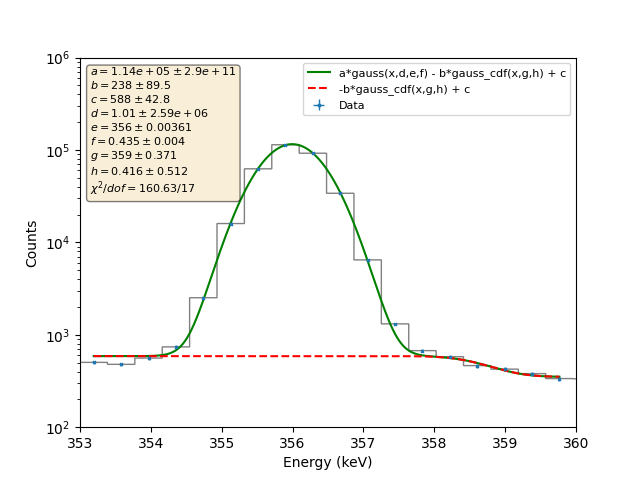
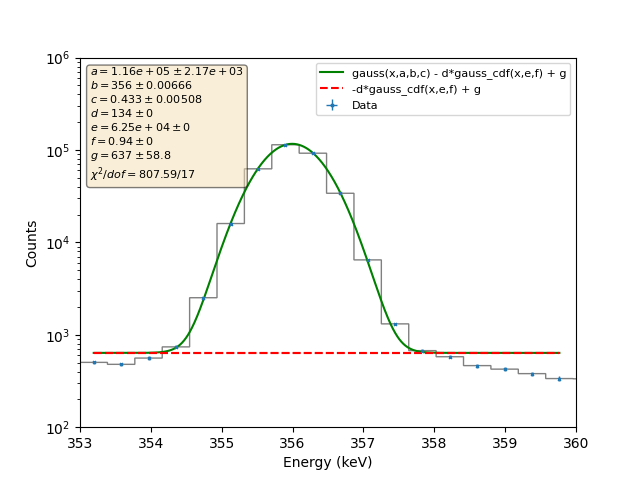
update

diff --git a/Ba133_analysis/Ba133_dlt_analysis.py b/Ba133_analysis/Ba133_dlt_analysis.py
@@ -58,20 +58,20 @@ def main():
     xmin_356, xmax_356 = 353, 360 #kev
     plt.figure()
     popt, pcov, xfit = fit_peak_356("Energy (keV)", bins_cal, counts, xmin_356, xmax_356)
-    a,b,c,d,e,f,g,h = popt[0],popt[1],[2],popt[3],popt[4],popt[5],popt[6],popt[7] 
+    a,b,c,d,e,f,g = popt[0],popt[1],popt[2],popt[3],popt[4],popt[5],popt[6] 
     counts, bins, bars = plt.hist(calibrated_energy, bins=no_bins, histtype='step', color='grey')
     plt.xlim(xmin_356, xmax_356) 
     plt.ylim(100, 10**6)
-    plt.plot(xfit, -1*popt[1]*gaussian_cdf(xfit,popt[6],popt[7]) + popt[2], "r--", label ="-b*gauss_cdf(x,g,h) + c")
+    plt.plot(xfit, -1*d*gaussian_cdf(xfit,e,f) + g, "r--", label ="-d*gauss_cdf(x,e,f) + g")
     plt.yscale("log")
     plt.savefig("/lfs/l1/legend/users/aalexander/HADES_detchar/Ba133_analysis/plots/356keV_dlt.png")
 
 
     #plot signal only and calculate integral
     fig, ax = plt.subplots()
-    ax.plot(xfit, a*gaussian(xfit, d, e, f), "b--", label ="a*gauss(x,e,f)")
+    plt.plot(xfit, gaussian(xfit,a,b,c), "b--", label ="gauss(x,a,b,c)")
     plt.yscale("log")
-    integral = gauss_count(a*d, e, f)
+    integral = gauss_count(a, b, c)
     print("gauss count: ", integral)
     plt.xlim(xmin_356, xmax_356) 
     plt.xlabel("Energy (keV)")
@@ -86,10 +86,11 @@ def main():
     #try other fits - constrained cdf - doesnt work?
     plt.figure()
     popt, pcov, xfit = fit_peak_356_2("Energy (keV)", bins_cal, counts, xmin_356, xmax_356)
+    a,b,c,d,e = popt[0],popt[1],[2],popt[3],popt[4]
     counts, bins, bars = plt.hist(calibrated_energy, bins=no_bins, histtype='step', color='grey')
     plt.xlim(xmin_356, xmax_356) 
     plt.ylim(100, 10**6)
-    plt.plot(xfit, -1*popt[1]*gaussian_cdf(xfit,popt[4],popt[5]) + popt[2], "r--", label ="-b*gauss_cdf(x,e,f) + c")
+    plt.plot(xfit, -1*d*gaussian_cdf(xfit,b,c) + e, "r--", label ="-d*gauss_cdf(x,b,c) + e")
     plt.yscale("log")
     plt.savefig("/lfs/l1/legend/users/aalexander/HADES_detchar/Ba133_analysis/plots/356keV_dlt_2.png")
 
@@ -126,6 +127,7 @@ def obtain_key_data(data, keys, key, no_events):
 def gaussian(x,a,b,c):
     "gaussian function without offset"
     f = a*np.exp(-((x-b)**2.0/(2.0*c**2.0)))
+    #f = a*np.exp(-(pow((x-b),2)/(2.0*pow(c,2))))
     return f
 
 def gaussian_cdf(x,a,b):
@@ -133,14 +135,14 @@ def gaussian_cdf(x,a,b):
     f = stats.norm.cdf(x, a, b) #default e=0=mean/loc, f=1=sigma/scale
     return f
 
-def gaussian_and_bkg(x, a, b, c, d, e, f, g, h):
+def gaussian_and_bkg(x, a, b, c, d, e, f, g):
     "fit function for 356kev peak"
-    f = a*gaussian(x, d, e, f) - b*gaussian_cdf(x, g, h) + c
+    f = gaussian(x, a, b, c) - d*gaussian_cdf(x, e, f) + g
     return f
 
-def gaussian_and_bkg_2(x, a, b, c, d, e, f):
+def gaussian_and_bkg_2(x, a, b, c, d, e):
     "fit function for 356kev peak - cdf fixed to same params as gaussian"
-    f = a*gaussian(x, d, e, f) - b*gaussian_cdf(x, e, f) + c
+    f = gaussian(x, a, b, c) - d*gaussian_cdf(x, b, c) + e
     return f
 
 def linear_fit(x, m, c):
@@ -158,7 +160,7 @@ def sqrt_curve(x,a,c):
     f = a*np.sqrt(x+c)
     return f
 
-def chi_sq_calc(xdata, ydata, yerr, fittype, popt):
+def chi_sq_calc(xdata, ydata, yerr, fit_func, popt):
     "calculate chi sq and p-val of a fit given the data points and fit parameters, e.g. fittype ='linear'"
    
     y_obs = ydata
@@ -166,18 +168,7 @@ def chi_sq_calc(xdata, ydata, yerr, fittype, popt):
 
     for index, y_i in enumerate(y_obs):
         x_obs = xdata[index]
-        if fittype == "linear":
-            y_exp_i = linear_fit(x_obs, *popt)
-        if fittype == "gaussian":
-            y_exp_i = gaussian(x_obs, *popt)
-        if fittype == "quadratic":
-            y_exp_i = quadratic_fit(x_obs, *popt)
-        if fittype == "sqrt":
-            y_exp_i = sqrt_curve(x_obs, *popt)
-        if fittype == "gaussian_and_bkg":
-            y_exp_i = gaussian_and_bkg(x_obs, *popt)
-        if fittype == "gaussian_and_bkg_2":
-            y_exp_i = gaussian_and_bkg_2(x_obs, *popt)
+        y_exp_i = fit_func(x_obs, *popt)
         y_exp.append(y_exp_i)
 
     #chi_sq, p_value = stats.chisquare(y_obs, y_exp)#this is without errors
@@ -226,15 +217,14 @@ def fit_peak_356(key, bins, counts, xmin, xmax):
     #initial rough guess of params
     aguess = max(ydata) - min(ydata) #gauss amplitude
     aguess_index = np.where(ydata == max(ydata))[0][0]
-    bguess = min(ydata)/100 #cdf amp
-    cguess = 0 #min(ydata) #offset
-    dguess = 1 #intrinsic gauss amp
-    eguess = xdata[aguess_index] #gauss mean
-    fguess = 1 #gauss sigma
-    gguess = eguess #cdf mean
-    hguess = 1 #fguess #cdf sigma
-    p_guess = [aguess, bguess, cguess, dguess, eguess, fguess, gguess, hguess]
-    #bounds=([0, 0, -np.inf, 0, 0, 0, 0, 0], [np.inf]*8)
+    bguess = xdata[aguess_index] #gauss mean
+    cguess =  1 #gauss sigma
+    dguess =  min(ydata)/100 #cdf amp
+    eguess =  bguess #cdf mean
+    fguess = cguess #cdf sigma
+    gguess = 0 #offset
+    p_guess = [aguess, bguess, cguess, dguess, eguess, fguess, gguess]
+    bounds=([0, 0, 0, 0, 0, 0, -np.inf], [np.inf]*7)
     sigma = []
     for index, i in enumerate(yerr):    
         if i != 0:
@@ -242,24 +232,24 @@ def fit_peak_356(key, bins, counts, xmin, xmax):
         else:
             sigma.append(1) #just to prevent errors...
     sigma = np.array(sigma)
-    popt, pcov = optimize.curve_fit(gaussian_and_bkg, xdata, ydata, p0=p_guess, sigma = sigma, maxfev = 1000000, method ="trf") #, bounds = bounds)
+    popt, pcov = optimize.curve_fit(gaussian_and_bkg, xdata, ydata, p0=p_guess, sigma = sigma, maxfev = 10**7, method ="trf", bounds = bounds)
     
-    a,b,c,d,e,f,g,h = popt[0],popt[1],[2],popt[3],popt[4],popt[5],popt[6],popt[7] 
+    a,b,c,d,e,f,g = popt[0],popt[1],[2],popt[3],popt[4],popt[5],popt[6]
 
     fig, ax = plt.subplots()
     #ax.errorbar(xdata, ydata, xerr=0, yerr =yerr, label = "Data", elinewidth = 1, fmt='x', ms = 0.75, mew = 3.0)
     plt.errorbar(xdata, ydata, xerr=0, yerr =yerr, label = "Data", elinewidth = 1, fmt='x', ms = 0.75, mew = 3.0)
     xfit = np.linspace(min(xdata), max(xdata), 1000)
-    plt.plot(xfit, gaussian_and_bkg(xfit,*popt), "g", label = "a*gauss(x,d,e,f) - b*gauss_cdf(x,g,h) + c") 
-    plt.plot(xfit, -1*b*gaussian_cdf(xfit,g,h) + c, "r--", label ="-b*gauss_cdf(x,g,h) + c")
+    plt.plot(xfit, gaussian_and_bkg(xfit,*popt), "g", label = "gauss(x,a,b,c) - d*gauss_cdf(x,e,f) + g") 
+    plt.plot(xfit, -1*d*gaussian_cdf(xfit,e,f) + g, "r--", label ="-d*gauss_cdf(x,e,f) + g")
     plt.xlabel(key)
     plt.ylabel("Counts")
     plt.legend(loc="upper right", fontsize=8)
 
-    chi_sq, p_value, residuals, dof = chi_sq_calc(xdata, ydata, yerr, "gaussian_and_bkg", popt)
+    chi_sq, p_value, residuals, dof = chi_sq_calc(xdata, ydata, yerr, gaussian_and_bkg, popt)
 
     props = dict(boxstyle='round', facecolor='wheat', alpha=0.5)
-    info_str = '\n'.join((r'$a=%.3g \pm %.3g$' % (popt[0], np.sqrt(pcov[0][0])), r'$b=%.3g \pm %.3g$' % (popt[1], np.sqrt(pcov[1][1])), r'$c=%.3g \pm %.3g$' % (popt[2], np.sqrt(pcov[2][2])), r'$d=%.3g \pm %.3g$' % (popt[3], np.sqrt(pcov[3][3])), r'$e=%.3g \pm %.3g$' % (popt[4], np.sqrt(pcov[4][4])), r'$f=%.3g \pm %.3g$' % (popt[5], np.sqrt(pcov[5][5])),r'$g=%.3g \pm %.3g$' % (popt[6], np.sqrt(pcov[6][6])), r'$h=%.3g \pm %.3g$' % (popt[7], np.sqrt(pcov[7][7])), r'$\chi^2/dof=%.2f/%.0f$'%(chi_sq, dof)))
+    info_str = '\n'.join((r'$a=%.3g \pm %.3g$' % (popt[0], np.sqrt(pcov[0][0])), r'$b=%.3g \pm %.3g$' % (popt[1], np.sqrt(pcov[1][1])), r'$c=%.3g \pm %.3g$' % (popt[2], np.sqrt(pcov[2][2])), r'$d=%.3g \pm %.3g$' % (popt[3], np.sqrt(pcov[3][3])), r'$e=%.3g \pm %.3g$' % (popt[4], np.sqrt(pcov[4][4])), r'$f=%.3g \pm %.3g$' % (popt[5], np.sqrt(pcov[5][5])),r'$g=%.3g \pm %.3g$' % (popt[6], np.sqrt(pcov[6][6])), r'$\chi^2/dof=%.2f/%.0f$'%(chi_sq, dof)))
     plt.text(0.02, 0.98, info_str, transform=ax.transAxes, fontsize=8,verticalalignment='top', bbox=props) #ax.text..ax.tra
 
     return popt, pcov, xfit
@@ -287,13 +277,13 @@ def fit_peak_356_2(key, bins, counts, xmin, xmax):
     #initial rough guess of params
     aguess = max(ydata) - min(ydata) #gauss amplitude
     aguess_index = np.where(ydata == max(ydata))[0][0]
-    bguess = min(ydata)/100 #cdf amp
-    cguess = 0 #min(ydata) #offset
-    dguess = 1 #intrinsic gauss amp
-    eguess = xdata[aguess_index] #gauss mean
-    fguess = 1 #gauss sigma
-    p_guess = [aguess, bguess, cguess, dguess, eguess, fguess]
-    #bounds=([0, 0, -np.inf, 0, 0, 0, 0, 0], [np.inf]*6)
+    bguess = xdata[aguess_index] #gauss mean
+    cguess =  1 #gauss sigma
+    dguess =  min(ydata)/100 #cdf amp
+    eguess = 0 #offset
+    p_guess = [aguess,bguess,cguess,dguess,eguess]
+    bounds=([0, 0, 0, 0, -np.inf], [np.inf]*5)
+    #bounds=([0, 0, -np.inf, 0, 0, 0, 0, 0], [np.inf]*4)
     sigma = []
     for index, i in enumerate(yerr):    
         if i != 0:
@@ -301,24 +291,24 @@ def fit_peak_356_2(key, bins, counts, xmin, xmax):
         else:
             sigma.append(1) #just to prevent errors...
     sigma = np.array(sigma)
-    popt, pcov = optimize.curve_fit(gaussian_and_bkg_2, xdata, ydata, p0=p_guess, sigma = sigma, maxfev = 1000000, method ="trf") #, bounds = bounds)
+    popt, pcov = optimize.curve_fit(gaussian_and_bkg_2, xdata, ydata, p0=p_guess, sigma = sigma, maxfev = 10**7, method ="trf", bounds = bounds)
     
-    a,b,c,d,e,f = popt[0],popt[1],[2],popt[3],popt[4],popt[5]
+    a,b,c,d,e = popt[0],popt[1],[2],popt[3],popt[4]
 
     fig, ax = plt.subplots()
     #ax.errorbar(xdata, ydata, xerr=0, yerr =yerr, label = "Data", elinewidth = 1, fmt='x', ms = 0.75, mew = 3.0)
     plt.errorbar(xdata, ydata, xerr=0, yerr =yerr, label = "Data", elinewidth = 1, fmt='x', ms = 0.75, mew = 3.0)
     xfit = np.linspace(min(xdata), max(xdata), 1000)
-    plt.plot(xfit, gaussian_and_bkg_2(xfit,*popt), "g", label = "a*gauss(x,d,e,f) - b*gauss_cdf(x,e,f) + c") 
-    plt.plot(xfit, -1*b*gaussian_cdf(xfit,e,f) + c, "r--", label ="-b*gauss_cdf(x,e,f) + c")
+    plt.plot(xfit, gaussian_and_bkg_2(xfit,*popt), "g", label = "gauss(x,a,b,c) - d*gauss_cdf(x,b,c) + e") 
+    plt.plot(xfit, -1*d*gaussian_cdf(xfit,b,c) + e, "r--", label ="-d*gauss_cdf(x,b,c) + e")
     plt.xlabel(key)
     plt.ylabel("Counts")
     plt.legend(loc="upper right", fontsize=8)
 
-    chi_sq, p_value, residuals, dof = chi_sq_calc(xdata, ydata, yerr, "gaussian_and_bkg_2", popt)
+    chi_sq, p_value, residuals, dof = chi_sq_calc(xdata, ydata, yerr, gaussian_and_bkg_2, popt)
 
     props = dict(boxstyle='round', facecolor='wheat', alpha=0.5)
-    info_str = '\n'.join((r'$a=%.3g \pm %.3g$' % (popt[0], np.sqrt(pcov[0][0])), r'$b=%.3g \pm %.3g$' % (popt[1], np.sqrt(pcov[1][1])), r'$c=%.3g \pm %.3g$' % (popt[2], np.sqrt(pcov[2][2])), r'$d=%.3g \pm %.3g$' % (popt[3], np.sqrt(pcov[3][3])), r'$e=%.3g \pm %.3g$' % (popt[4], np.sqrt(pcov[4][4])), r'$f=%.3g \pm %.3g$' % (popt[5], np.sqrt(pcov[5][5])), r'$\chi^2/dof=%.2f/%.0f$'%(chi_sq, dof)))
+    info_str = '\n'.join((r'$a=%.3g \pm %.3g$' % (popt[0], np.sqrt(pcov[0][0])), r'$b=%.3g \pm %.3g$' % (popt[1], np.sqrt(pcov[1][1])), r'$c=%.3g \pm %.3g$' % (popt[2], np.sqrt(pcov[2][2])), r'$d=%.3g \pm %.3g$' % (popt[3], np.sqrt(pcov[3][3])), r'$e=%.3g \pm %.3g$' % (popt[4], np.sqrt(pcov[4][4])), r'$\chi^2/dof=%.2f/%.0f$'%(chi_sq, dof)))
     plt.text(0.02, 0.98, info_str, transform=ax.transAxes, fontsize=8,verticalalignment='top', bbox=props) #ax.text..ax.tra
 
     return popt, pcov, xfit

diff --git a/Ba133_analysis/Ba133_Calibration.py b/Ba133_analysis/Ba133_Calibration.py
@@ -277,7 +277,7 @@ def sqrt_curve(x,a,c):
     f = a*np.sqrt(x + c)
     return f
 
-def chi_sq_calc(xdata, ydata, yerr, fittype, popt):
+def chi_sq_calc(xdata, ydata, yerr, fit_func, popt):
     "calculate chi sq and p-val of a fit given the data points and fit parameters, e.g. fittype ='linear'"
    
     y_obs = ydata
@@ -285,14 +285,7 @@ def chi_sq_calc(xdata, ydata, yerr, fittype, popt):
 
     for index, y_i in enumerate(y_obs):
         x_obs = xdata[index]
-        if fittype == "linear":
-            y_exp_i = linear_fit(x_obs, *popt)
-        if fittype == "gaussian":
-            y_exp_i = gaussian(x_obs, *popt)
-        if fittype == "quadratic":
-            y_exp_i = quadratic_fit(x_obs, *popt)
-        if fittype == "sqrt":
-            y_exp_i = sqrt_curve(x_obs, *popt)
+        y_exp_i = fit_func(x_obs, *popt)
         y_exp.append(y_exp_i)
 
     #chi_sq, p_value = stats.chisquare(y_obs, y_exp)#this is without errors
@@ -361,7 +354,7 @@ def fit_peak(key, bins, counts, xmin, xmax): #p_guess):
     plt.ylabel("Counts")
     plt.legend()
 
-    chi_sq, p_value, residuals, dof = chi_sq_calc(xdata, ydata, yerr, "gaussian", popt)
+    chi_sq, p_value, residuals, dof = chi_sq_calc(xdata, ydata, yerr, gaussian, popt)
 
     props = dict(boxstyle='round', facecolor='wheat', alpha=0.5)
     info_str = '\n'.join((r'$\mu=%.2f \pm %.2f$' % (mu, mu_err, ), r'$\sigma=%.2f \pm %.2f$' % (np.abs(sigma), sigma_err,), r'$\chi^2/dof=%.2f/%.0f$'%(chi_sq, dof))) #, r'$p=%.3g$'%p_value))
@@ -392,7 +385,7 @@ def calibration(data, data_err, truth, fittype):
         plt.ylabel("calibration peaks")
         plt.legend(loc = 4)
 
-        chi_sq, p_value, residuals, dof = chi_sq_calc(xdata, ydata, yerr, "linear", popt)
+        chi_sq, p_value, residuals, dof = chi_sq_calc(xdata, ydata, yerr, linear_fit, popt)
 
         props = dict(boxstyle='round', facecolor='wheat', alpha=0.5)
         info_str = '\n'.join((r'$m = %.3f \pm %.3f$' % (m, m_err, ), r'$c = %.3f \pm %.3f$' % (c, c_err,), r'$\chi^2/dof=%.0f/%.0f$'%(chi_sq, dof)))# r'$\chi^2 = %.3f$'%(chi_sq), r'$p = %.3g$'%(p_value)))
@@ -413,7 +406,7 @@ def calibration(data, data_err, truth, fittype):
         plt.ylabel("calibration peaks")
         plt.legend(loc = 4)
 
-        chi_sq, p_value, residuals, dof = chi_sq_calc(xdata, ydata, yerr, "quadratic", popt)
+        chi_sq, p_value, residuals, dof = chi_sq_calc(xdata, ydata, yerr, quadratic_fit, popt)
 
         props = dict(boxstyle='round', facecolor='wheat', alpha=0.5)
         info_str = '\n'.join((r'$a = %.3g \pm %.3g$' % (a, a_err, ), r'$b = %.3f \pm %.3f$' % (b, b_err,), r'$c = %.3f \pm %.3f$' % (c, c_err,),  r'$\chi^2/dof=%.0f/%.0f$'%(chi_sq, dof))) #, r'$p = %.3g$'%(p_value)))
@@ -447,7 +440,7 @@ def resolution_plot(energies, energies_err, FWHM, FWHM_err):
     plt.xlabel("Energy (keV)")
     plt.ylabel("FWHM (keV)")
     plt.legend()
-    chi_sq, p_value, residuals, dof = chi_sq_calc(energies, FWHM, FWHM_err, "sqrt", popt)
+    chi_sq, p_value, residuals, dof = chi_sq_calc(energies, FWHM, FWHM_err, sqrt_curve, popt)
     props = dict(boxstyle='round', facecolor='wheat', alpha=0.5)
     info_str = '\n'.join((r'$A=%.3f \pm %.3f$' % (A, A_err, ), r'$c=%.3f \pm %.3f$' % (offset, offset_err,), r'$\chi^2/dof=%.0f/%.0f$'%(chi_sq, dof))) #, r'$p=%.3g$'%p_value))
     ax.text(0.70, 0.20, info_str, transform=ax.transAxes, fontsize=10,verticalalignment='top', bbox=props)
